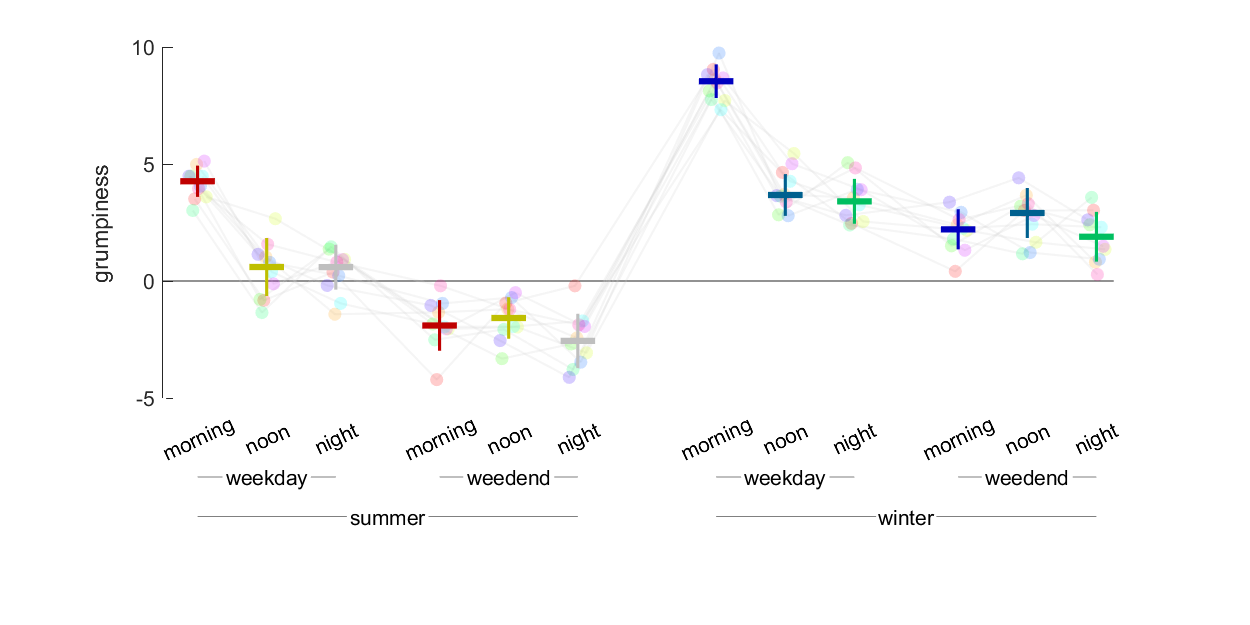
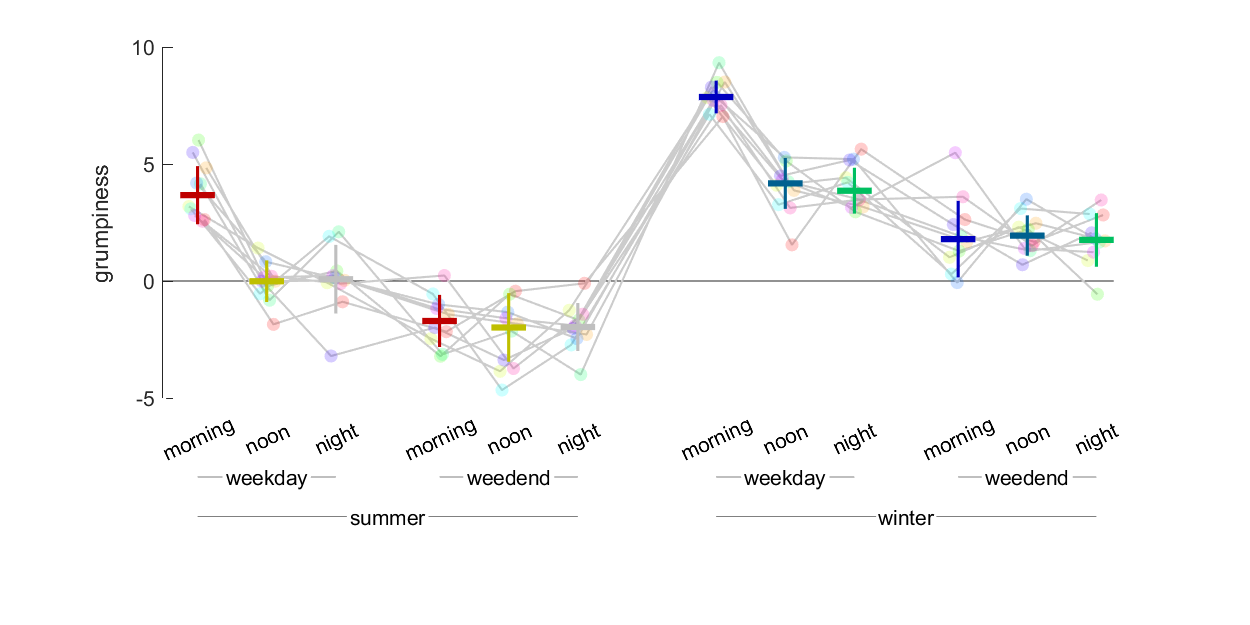
wip

Changed region(s): [[0.1248, 0.0608, 0.9048, 0.6384], [0.2496, 0.5472, 0.312, 0.5776], [0.7488, 0.2432, 0.78, 0.2736]]

diff --git a/barFancy.m b/barFancy.m
@@ -113,7 +113,7 @@ if s.connectDots && dataDims(end)<100  % latter term prevents drawing lines with
             smpData(j) = squeeze(data(inds{:}));
         end
 
-        line(xPositions+xJitters(i), smpData, 'linewidth', 1, 'color', [.8 .8 .8 s.scatterAlpha]);
+        line(xPositions+xJitters(i), smpData, 'linewidth', 1, 'color', 1-[1 1 1]*s.scatterAlpha);
     end
 end
 

diff --git a/README.md b/README.md
@@ -1,15 +1,9 @@
-<style>
-p {
-  text-align:center
-}
-</style>
-
 # fancy bar plots!
 I'm sick and tired of plots that aren't fancy! `barFancy` allows you to make beautiful bar plots for simple data, as well as datasets with arbitrarily complex factor hierarchies.
 
 Imagine you are trying to figure out when people are most grumpy. You guess that grumpiness varies with certain **factors**, such as the season, the day of the week, and the time of day. Each of these factors has multiple **levels** (summer/winter, weekday/weekend, morning/noon/night). With `barFancy` you can quickly generate bar plots that show the hierarchical relationships between your factors:
 
-<p style="text-align:center"><img src="exampleImages/bar1.png" width="70%"></p>
+![](exampleImages/bar2.png)
 
 
 `barFancy` takes as input a *number of factors + 1* dimensional data matrix, where each dimension is a factor, and the last dimension contains data from all of your samples. There are tons of visualization options that can be passed in as Name-Value pairs (see below).
